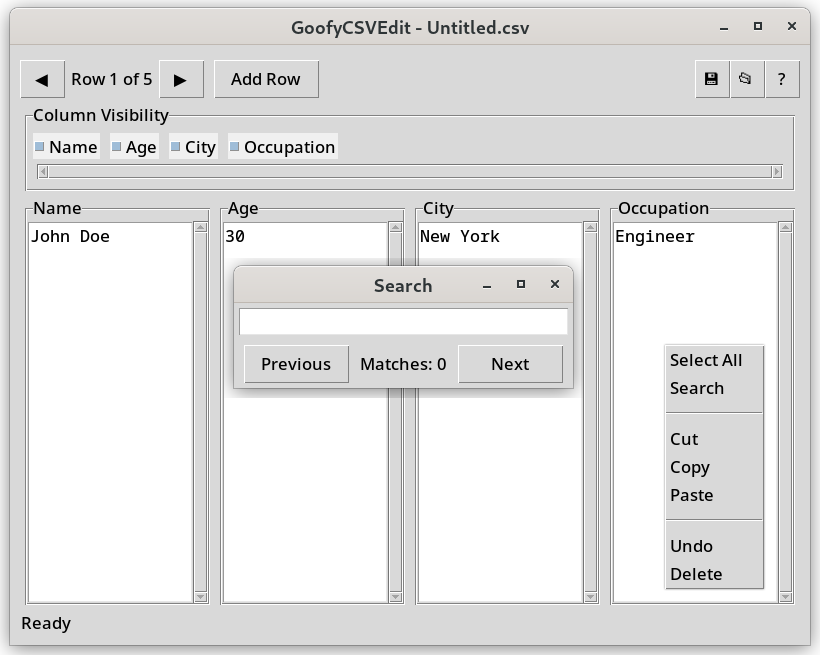
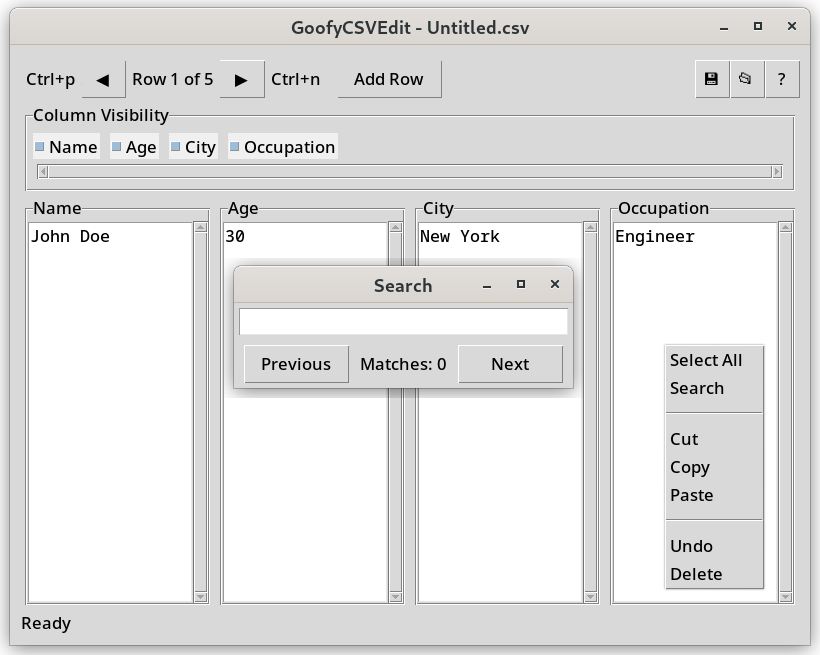
shortcuts

Changed region(s): [[0.0305, 0.0916, 0.3963, 0.1527], [0.4268, 0.0916, 0.5183, 0.1527]]

diff --git a/goocsv/editor.py b/goocsv/editor.py
@@ -261,15 +261,25 @@ class CSVEditorApp:
         # Row controls
         control_frame = ttk.Frame(self.main_frame)
         control_frame.pack(fill=tk.X, pady=5)
-        
+
+        label_hint_prev = ttk.Label(control_frame, text="Ctrl+p")
+        label_hint_next = ttk.Label(control_frame, text="Ctrl+n")
+
+        label_hint_prev.pack(side=tk.LEFT, padx=5)
         ttk.Button(control_frame, text="◀", width=3, 
                  command=lambda: self.change_row(-1)).pack(side=tk.LEFT)
         self.row_label = ttk.Label(control_frame, text=f"Row {self.current_row + 1} of {len(self.rows)}")
         self.row_label.pack(side=tk.LEFT, padx=5)
         ttk.Button(control_frame, text="▶", width=3,
                  command=lambda: self.change_row(1)).pack(side=tk.LEFT)
+        label_hint_next.pack(side=tk.LEFT, padx=5)
         ttk.Button(control_frame, text="Add Row", 
                  command=self.add_row).pack(side=tk.LEFT, padx=10)
+        
+        # Bind ctrl+p to previous row
+        self.master.bind('<Control-p>', lambda e: self.change_row(-1))
+        # Bind ctrl+n to next row
+        self.master.bind('<Control-n>', lambda e: self.change_row(1))
         
         ttk.Button(control_frame, text="?", command=self.about, width=2).pack(side=tk.RIGHT)
         ttk.Button(control_frame, text="📂", command=self.open_new_file, width=2).pack(side=tk.RIGHT)
